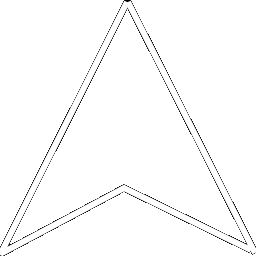
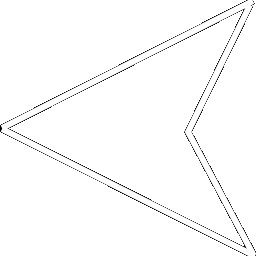
Added bullets

Changed region(s): [[0.0, 0.0, 1.0, 1.0]]

diff --git a/js/app.js b/js/app.js
@@ -1,8 +1,5 @@
 $(document).ready(function() {
 
-	var gameHeight = 700;
-	var gameWidth = 700;
-
 	const gameArea = {
 		canvas : document.createElement("canvas"),
 		start : function () {
@@ -30,6 +27,7 @@ $(document).ready(function() {
 		drawText : function (theString, x, y, size = 16) {
 			//Draw function for text
 			this.context.save();
+			this.context.fillStyle = "white";
 			this.context.font = size + "px Verdana";
 			this.context.fillText(theString, x, y);
 			this.context.restore();
@@ -37,17 +35,27 @@ $(document).ready(function() {
 		drawImg : function (width, height, x, y, image, rotation = 0) {
 			//Draw an image with the given parameters
 			this.context.save();
-			this.context.drawImage(image, x, y, width, height);
+			if (rotation !== 0) {
+				this.context.translate(x +(width/2),y +(height/2));
+				this.context.rotate(rotation);
+				this.context.drawImage(image, -width/2, -height/2, width, height);
+			} else {
+				this.context.drawImage(image, x, y, width, height);
+			}
 			this.context.restore();
 		}
 	};
-	//87 & 38 = up, 68 & 39 = right, 65 & 40 = down, 83 & 37 = left, 80 = pause
-	var keyMap = {87: false, 38: false, 68: false, 39: false, 65: false, 40: false, 83: false, 37: false, 80: false};
+	var gameHeight = 700;
+	var gameWidth = 700;
+	//87 & 38 = up, 68 & 39 = right, 65 & 40 = down, 83 & 37 = left, 71 = g, 80 = pause
+	var keyMap = {87: false, 38: false, 68: false, 39: false, 65: false, 40: false, 83: false, 37: false, 71: false, 80: false};
 	var asteroids = [];
+	var bullets = [];
 	var asteroidImg;
 	var asteroidNum = 7;
 	var paused = false;
 	var maxAsteroids = 10;
+	var maxBullets = 3;
 	
 	$(document).keydown(function(e) {
 		if (e.keyCode in keyMap) {
@@ -65,11 +73,12 @@ $(document).ready(function() {
 	});
 
 	var player = {
-		x: 50,
-		y: 50,
+		x: gameWidth / 2,
+		y: gameHeight / 2,
 		height: 50,
 		width: 50,
-		speed: 2,
+		speed: 4,
+		maxSpeed: 3,
 		rotation: 0,
 		img: [],
 		lives: 2,
@@ -78,6 +87,9 @@ $(document).ready(function() {
 		},
 		init: function() {
 			this.img.src = "assets/player.png";
+		},
+		fire: function() {
+			bullets.push(new bullet(this.x,this.y + (this.height/2),this.rotation));
 		}
 	}
 
@@ -95,6 +107,9 @@ $(document).ready(function() {
 		this.move = function() {
 			if (this.x < 0 || this.x > gameWidth || this.y < 0 || this.y > gameHeight) {
 				this.reset();
+			} else if (this.xSpeed === 0 && this.ySpeed === 0){
+				this.xSpeed = Math.floor(Math.random() * 6) - 3;
+				this.ySpeed = Math.floor(Math.random() * 6) - 3;
 			} else {
 				this.x += this.xSpeed;
 				this.y += this.ySpeed;
@@ -115,13 +130,38 @@ $(document).ready(function() {
 		},
 		this.split = function() {
 			if (!this.collided) {
-				asteroids.push(new asteroid(this.x, this.y, this.xSpeed, this.ySpeed, this.height / 2, this.width /2, true));
+				asteroids.push(new asteroid(this.x, this.y, -this.xSpeed, -this.ySpeed, this.height / 2, this.width /2, true));
 				this.height /= 2;
 				this.width /= 2;
 			}
 		},
 		this.die = function() {
 			asteroids.splice(asteroids.indexOf(this),1);
+		}
+	}
+
+	function bullet(x, y, rotation) {
+		//Add an amount to x and y so the bullet doesn't hit the shooter
+		this.x = x + (Math.cos(rotation));
+		this.y = y + (Math.sin(rotation));
+		this.size = 5;
+		this.speed = 6;
+		this.rotation = rotation;
+		
+		this.move = function() {
+			//Keep bullet going at the same speed on a diagonal path
+			this.x -= this.speed * Math.cos(this.rotation);
+			this.y -= this.speed * Math.sin(this.rotation);
+			if (this.x > gameWidth || this.x < 0 || this.y > gameHeight || this.y < 0) {
+				this.die();
+			}
+		},
+		this.draw = function() {
+			gameArea.draw(this.size,this.size,this.x,this.y,"red",this.rotation);
+		},
+		this.die = function() {
+			//Remove from bullets array
+			bullets.splice(bullets.indexOf(this),1);
 		}
 	}
 
@@ -157,30 +197,47 @@ $(document).ready(function() {
 	function checkKeys() {
 		//up
 		if (keyMap[87] || keyMap[38]) {
-			player.y -= player.speed;
+			player.x -= player.speed * Math.cos(player.rotation);
+			player.y -= player.speed * Math.sin(player.rotation);
 		}
 		//Right
 		if (keyMap[68] || keyMap[39]) {
-			player.x += player.speed;
-			//player.rotation += 0.1;
+			player.rotation += 0.1;
 		}
 		//Left
 		if (keyMap[65] || keyMap[40]) {
-			player.x -= player.speed;
-			//player.rotation -= 0.1;
+			player.rotation -= 0.1;
 		}
 		//Down
 		if (keyMap[83] || keyMap[37]) {
-			player.y += player.speed;
+			player.x += player.speed * Math.cos(player.rotation);
+			player.y += player.speed * Math.sin(player.rotation);
+		}
+		if (keyMap[71] && bullets.length < maxBullets) {
+			player.fire();
+		}
+	}
+
+	function drawLives() {
+		gameArea.drawText("Lives: ", 10, 20);
+		for (var i = 0; i < player.lives; i++) {
+			gameArea.drawText("*", 60 + (10*i), 20);
 		}
 	}
 
 	function updateGameArea() {
 		gameArea.clear();
 		checkKeys();
+		drawLives();
 		player.draw();
 		if (asteroids.length > maxAsteroids) {
 			asteroids.splice(0,maxAsteroids - asteroids.length);
+		}
+		for (var i = 0; i < bullets.length; i++) {
+			bullets[i].move();
+			if (bullets[i]) {
+				bullets[i].draw();
+			}
 		}
 		for (var i = 0; i < asteroids.length; i++) {
 			if (collission(player.x, player.y, player.width, player.height, asteroids[i].x, asteroids[i].y, asteroids[i].width, asteroids[i].height)) {
@@ -189,6 +246,11 @@ $(document).ready(function() {
 				}
 				asteroids[i].split();
 				asteroids[i].collided = true;
+			} else if (asteroids[i].collided){
+				asteroids[i].collided = false;
+			} else if (asteroids[i].height < 10) {
+				asteroids[i].die();
+				continue;
 			}
 			asteroids[i].move();
 			asteroids[i].draw();

diff --git a/index.html b/index.html
@@ -6,12 +6,13 @@
 	<script type="text/javascript" src="js/app.js"></script>
 </head>
 <body>
-	<h1>Asteroids Game V0.1</h1>
+	<h1>Asteroids Game V0.2</h1>
 	<h2>Tasks</h2>
 	<ul>
-		<li>Set up collission detection</li>
-		<li>Set up player rotation</li>
+		<li>End game when the player has no lives</li>
 		<li>Make the asteroids come from the side of the screen</li>
+		<li>Make the canvas the size of the screen</li>
+		<li>Fix player able to go off the map issue</li>
 	</ul>
 </body>
 </html>
